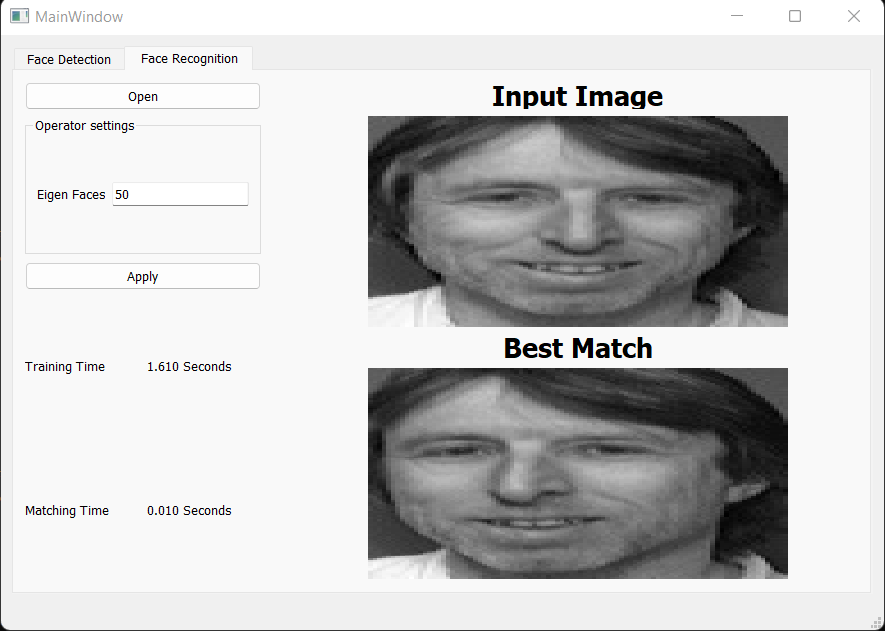
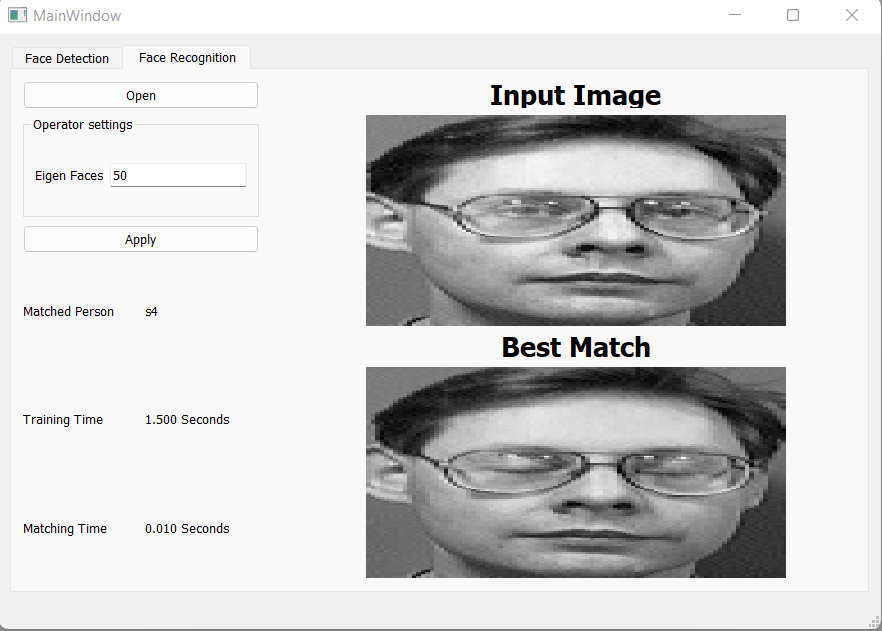
add matched person name

diff --git a/gui.py b/gui.py
@@ -244,6 +244,16 @@ class Ui_MainWindow(object):
         self.apply_button_2.setEnabled(False)
         self.apply_button_2.setObjectName("apply_button_2")
         self.verticalLayout_6.addWidget(self.apply_button_2)
+        self.horizontalLayout_7 = QtWidgets.QHBoxLayout()
+        self.horizontalLayout_7.setObjectName("horizontalLayout_7")
+        self.label_11 = QtWidgets.QLabel(self.clustring_tab)
+        self.label_11.setObjectName("label_11")
+        self.horizontalLayout_7.addWidget(self.label_11)
+        self.matched_person = QtWidgets.QLabel(self.clustring_tab)
+        self.matched_person.setText("")
+        self.matched_person.setObjectName("matched_person")
+        self.horizontalLayout_7.addWidget(self.matched_person)
+        self.verticalLayout_6.addLayout(self.horizontalLayout_7)
         self.horizontalLayout_5 = QtWidgets.QHBoxLayout()
         self.horizontalLayout_5.setObjectName("horizontalLayout_5")
         self.label_7 = QtWidgets.QLabel(self.clustring_tab)
@@ -304,6 +314,7 @@ class Ui_MainWindow(object):
         self.label4_6.setText(_translate("MainWindow", "Eigen Faces"))
         self.eigen_num.setText(_translate("MainWindow", "50"))
         self.apply_button_2.setText(_translate("MainWindow", "Apply"))
+        self.label_11.setText(_translate("MainWindow", "Matched Person"))
         self.label_7.setText(_translate("MainWindow", "Training Time"))
         self.label_9.setText(_translate("MainWindow", "Matching Time"))
         self.tabWidget.setTabText(self.tabWidget.indexOf(self.clustring_tab), _translate("MainWindow", "Face Recognition"))

diff --git a/src/face_recog.py b/src/face_recog.py
@@ -6,8 +6,11 @@ import math
 def train_data(data_path,eigen_faces_num):
     train_images = []
     images = []
+    persons = []
     for filename in os.scandir(data_path):
         if filename.is_file():
+            file = os.path.basename(filename.path)
+            persons.append(file[:file.find("-")])
             img = cv2.imread(filename.path,cv2.IMREAD_GRAYSCALE)
             images.append(img)
             flatten_img = img.flatten()
@@ -25,9 +28,9 @@ def train_data(data_path,eigen_faces_num):
     projections = []
     for i in range(train_images.shape[0]):
         projections.append(eigen_faces[:eigen_faces_num].dot(zero_mean_train[i]))
-    return projections,mean_img,eigen_faces,images
+    return projections,mean_img,eigen_faces,images,persons
 
-def recog_face(test,projections,mean_img,eigen_faces,images,eigen_faces_num,thres):
+def recog_face(test,projections,mean_img,eigen_faces,images,persons,eigen_faces_num,thres):
     test = cv2.cvtColor(test, cv2.COLOR_BGR2GRAY)
     flatten_test = test.flatten()
     zero_mean_test = flatten_test - mean_img
@@ -51,4 +54,4 @@ def recog_face(test,projections,mean_img,eigen_faces,images,eigen_faces_num,thre
         if smallest_dist>imgs_dist:
             smallest_dist=imgs_dist
             img_idx=z
-    return face_detected,images[img_idx]
+    return face_detected,images[img_idx],persons[img_idx]

diff --git a/app.py b/app.py
@@ -47,13 +47,14 @@ class MainWindow(QtWidgets.QMainWindow , gui.Ui_MainWindow):
     
     def recog_img(self):
         start = time.time()
-        projections,mean_img,eigen_faces,images = train_data("Dataset/train",int(self.eigen_num.text()))
+        projections,mean_img,eigen_faces,images,persons = train_data("Dataset/train",int(self.eigen_num.text()))
         end = time.time()
         self.time_label_2.setText(str("{:.3f}".format(end-start)) + " Seconds")
         start = time.time()
-        detected, matched_img = recog_face(self.img,projections,mean_img,eigen_faces,images,int(self.eigen_num.text()),10000)
+        detected, matched_img,person = recog_face(self.img,projections,mean_img,eigen_faces,images,persons,int(self.eigen_num.text()),10000)
         end = time.time()
         self.time_label_3.setText(str("{:.3f}".format(end-start)) + " Seconds")
+        self.matched_person.setText(person)
         matched_img_rgb = cv2.cvtColor(matched_img, cv2.COLOR_BGR2RGB)
         self.display(matched_img_rgb,self.widgets[2])
         
